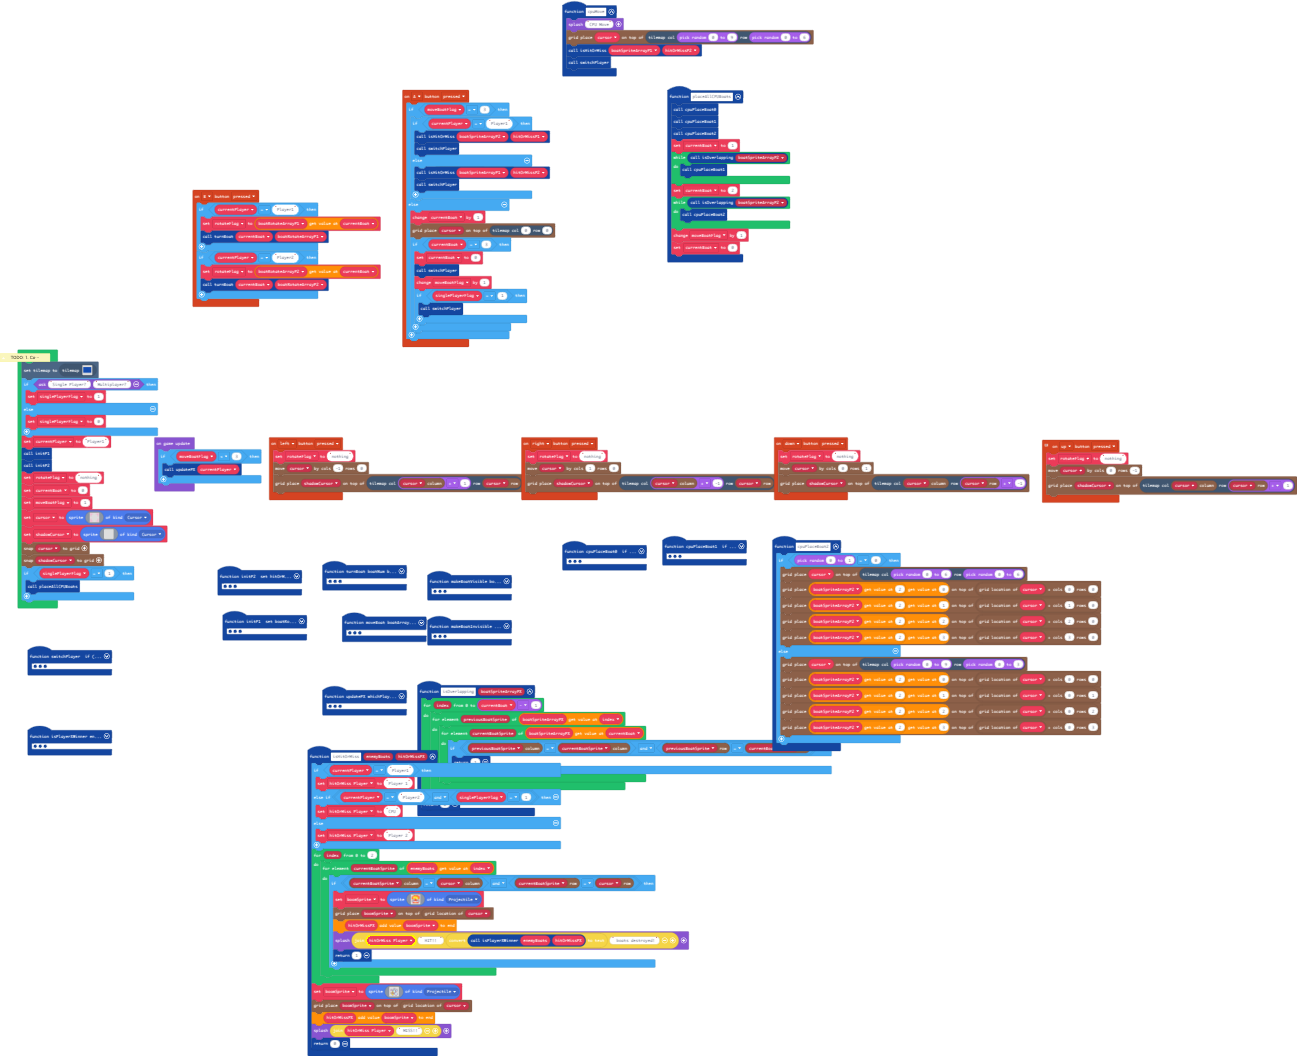
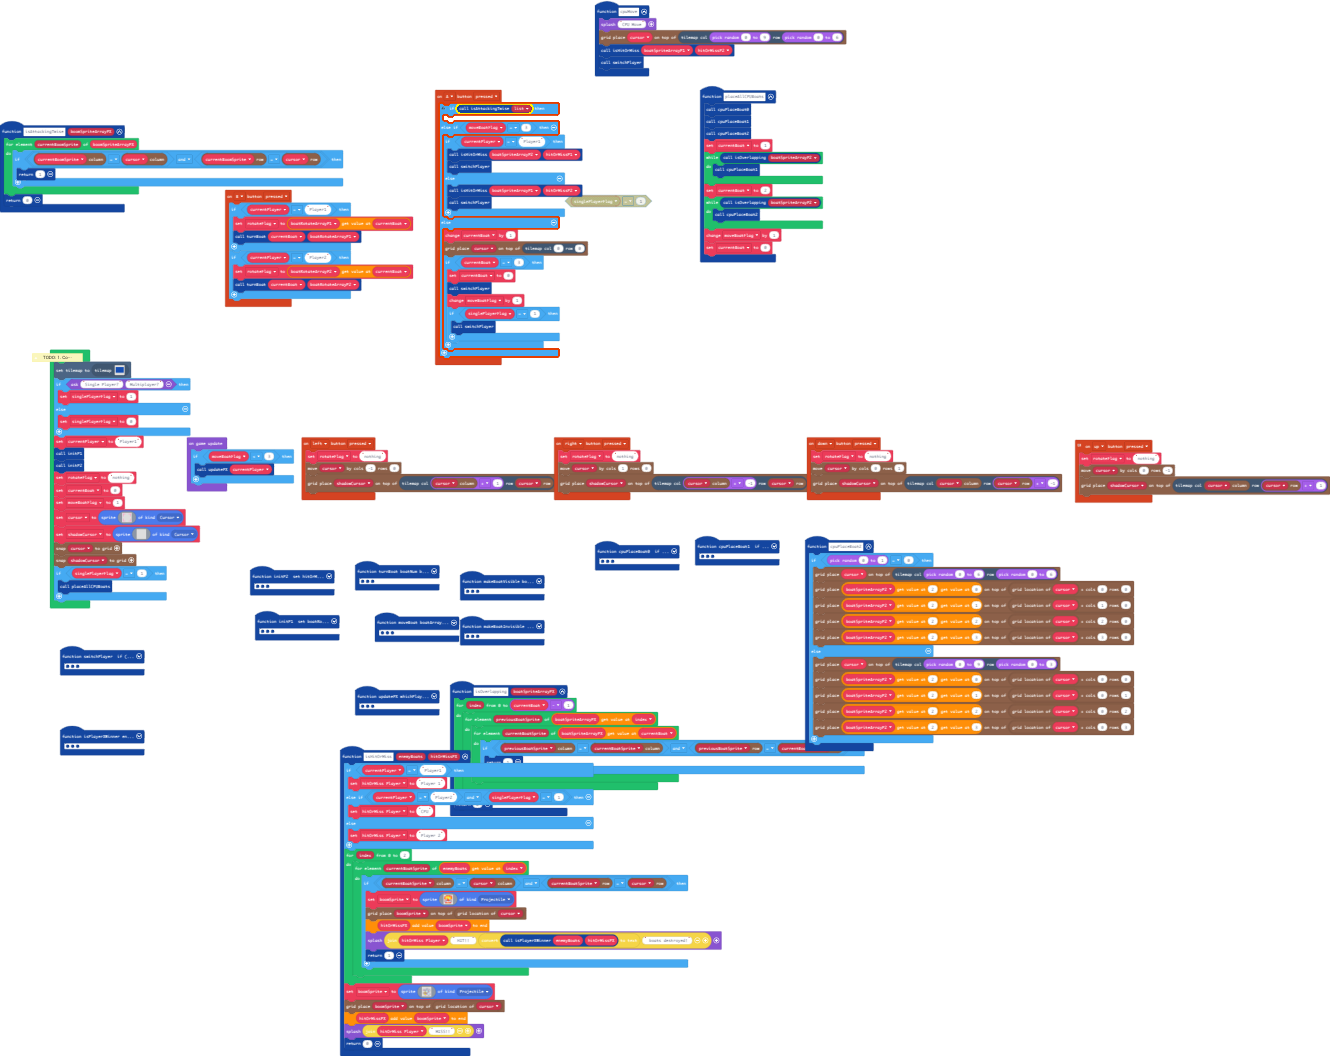
working on is attacking twice

diff --git a/main.ts b/main.ts
@@ -90,7 +90,10 @@ function isPlayerXWinner (enemyBoats: Sprite[][], hitOrMissPX: Sprite[]) {
     return killCount
 }
 controller.A.onEvent(ControllerButtonEvent.Pressed, function () {
-    if (moveBoatFlag == 3) {
+    let list: number[] = []
+    if (isAttackingTwise(list)) {
+    	
+    } else if (moveBoatFlag == 3) {
         if (currentPlayer == "Player1") {
             isHitOrMiss(boatSpriteArrayP2, hitOrMissP1)
             switchPlayer()
@@ -246,6 +249,14 @@ controller.down.onEvent(ControllerButtonEvent.Pressed, function () {
     grid.move(cursor, 0, 1)
     grid.place(shadowCursor, tiles.getTileLocation(grid.spriteCol(cursor), grid.spriteRow(cursor) + -1))
 })
+function isAttackingTwise (boomSpriteArrayPX: Sprite[]) {
+    for (let currentBoomSprite of boomSpriteArrayPX) {
+        if (grid.spriteCol(currentBoomSprite) == grid.spriteCol(cursor) && grid.spriteRow(currentBoomSprite) == grid.spriteRow(cursor)) {
+            return 1
+        }
+    }
+    return 0
+}
 function initP1 () {
     boatRotateArrayP1 = ["up", "up", "up"]
     boatSpriteArrayP1 = [[sprites.create(img`
